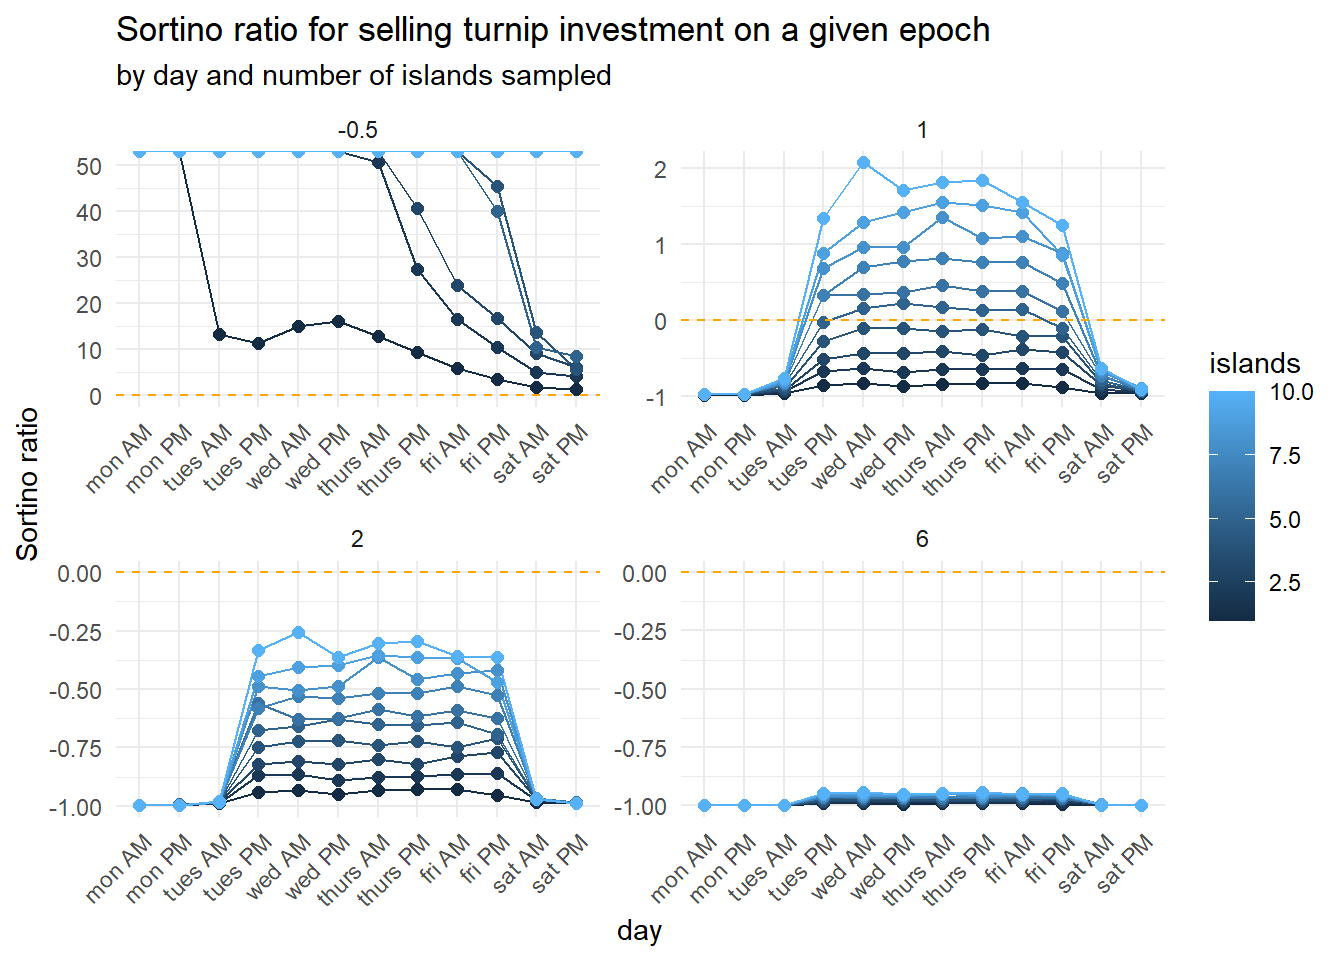
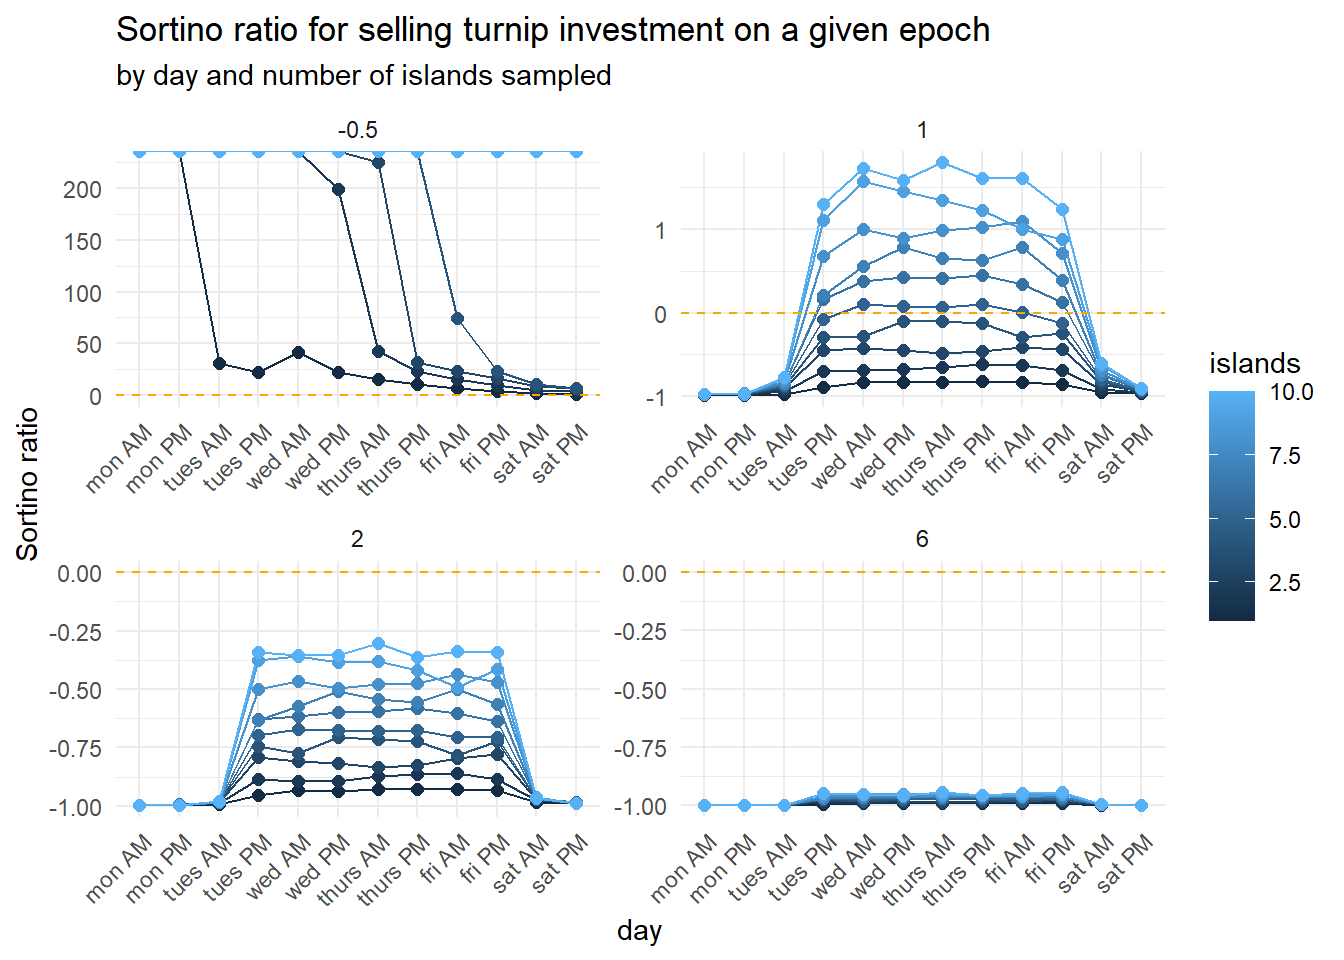
fixed typo and plot graph

diff --git a/public/post/how_i_made_my_millions/index.html b/public/post/how_i_made_my_millions/index.html
@@ -388,7 +388,7 @@ pattern_likelihood_analytic</code></pre>
 <pre><code>## fluctuating large_spike  decreasing small_spike 
 ##   0.3462773   0.2473628   0.1476074   0.2587525</code></pre>
 <p>Where we see that around half the time we have a chance of either a large or a small spike in prices around midweek (24.7% + 25.9%), with the majority of the remaining weeks showing a fluctuating pattern (where the player can still make a small profit). The worst case scenario of continually decreasing prices happens only 14.7% of the time, so overall, the stalk market looks like a pretty good bet for investors.</p>
-<p>Of course, we can also do this using Hamiltonian Monte Carlo methods but just simulating a few sets of independent weeks</p>
+<p>Of course, we can also do this using Hamiltonian Monte Carlo methods by simulating a few sets of independent weeks</p>
 <pre class="r"><code>#transition probabilities
 transition_df &lt;- as.data.frame(transition_matrix) %&gt;%
   rownames_to_column(var = &quot;current_state&quot;) %&gt;%
@@ -441,10 +441,10 @@ pattern_likelihood</code></pre>
 <pre><code>## # A tibble: 4 x 2
 ##   pattern      prob
 ##   &lt;chr&gt;       &lt;dbl&gt;
-## 1 decreasing  0.145
-## 2 fluctuating 0.346
+## 1 decreasing  0.147
+## 2 fluctuating 0.352
 ## 3 large_spike 0.244
-## 4 small_spike 0.265</code></pre>
+## 4 small_spike 0.256</code></pre>
 <p>And we get pretty much the same numbers (as we would expect). To show the relative frequencies and how well our two methods of finding the stationary probabilities work, we can easily graph this using ggplot:</p>
 <pre class="r"><code>p1 &lt;- pattern_likelihood_analytic %&gt;%
   as.data.frame() %&gt;%
@@ -615,18 +615,18 @@ select(Sharpe_mean_returns, day, sharpe_ratio)</code></pre>
 <pre><code>## # A tibble: 12 x 2
 ##    day      sharpe_ratio
 ##    &lt;fct&gt;           &lt;dbl&gt;
-##  1 mon AM        -0.250 
-##  2 mon PM        -0.340 
-##  3 tues AM       -0.212 
-##  4 tues PM        0.0574
-##  5 wed AM         0.0993
-##  6 wed PM         0.108 
-##  7 thurs AM       0.0618
-##  8 thurs PM       0.0866
-##  9 fri AM         0.0574
-## 10 fri PM        -0.0494
-## 11 sat AM        -0.536 
-## 12 sat PM        -0.812</code></pre>
+##  1 mon AM        -0.274 
+##  2 mon PM        -0.369 
+##  3 tues AM       -0.158 
+##  4 tues PM        0.0975
+##  5 wed AM         0.157 
+##  6 wed PM         0.135 
+##  7 thurs AM       0.0574
+##  8 thurs PM       0.0533
+##  9 fri AM         0.0347
+## 10 fri PM        -0.103 
+## 11 sat AM        -0.595 
+## 12 sat PM        -0.763</code></pre>
 <p>So, as expected, the only epochs which show a positive Sharpe ratio are in the middle of the week, where prices spike. If we plot this we get a clearer indication of this:</p>
 <pre class="r"><code>p4 &lt;- ggplot(Sharpe_mean_returns, aes(x = day, y = sharpe_ratio, group = 1)) +
   geom_line(colour = &quot;dodgerblue&quot;) +
@@ -703,19 +703,19 @@ p5</code></pre>
   arrange(-mean_return) %&gt;%
   head(n = 10)</code></pre>
 <pre><code>## # A tibble: 10 x 3
-## # Groups:   islands [3]
+## # Groups:   islands [2]
 ##    islands day      mean_return
 ##      &lt;int&gt; &lt;fct&gt;          &lt;dbl&gt;
-##  1      10 wed AM          2.71
-##  2      10 thurs PM        2.65
-##  3      10 thurs AM        2.65
+##  1      10 thurs AM        2.65
+##  2      10 fri AM          2.60
+##  3      10 wed AM          2.59
 ##  4      10 wed PM          2.59
-##  5       9 thurs AM        2.58
-##  6      10 fri AM          2.58
-##  7      10 tues PM         2.58
-##  8       9 thurs PM        2.57
-##  9       9 fri AM          2.56
-## 10       8 thurs AM        2.55</code></pre>
+##  5      10 thurs PM        2.58
+##  6       9 wed AM          2.58
+##  7      10 tues PM         2.57
+##  8      10 fri PM          2.56
+##  9       9 wed PM          2.54
+## 10       9 thurs AM        2.54</code></pre>
 <p>If we use our Sharpe ratio calculation to then calculate when a player should collude with friends to all check their local turnip prices* we might expect therefore that it will also suggest checking somewhere in this midweek spike. However, if we plot it, we find an unexpected result:</p>
 <p>*if we assume that quarantined players probably <em>can</em> manage to check prices more than once/twice a week, managing to co-ordinate between multiple players is going to get very hard very quickly so this constraint really will become a factor</p>
 <pre class="r"><code>#calculate Sharpe ratio per island as before
@@ -784,7 +784,10 @@ p7</code></pre>
     x = &quot;fractional daily change in price&quot;,
     y = &quot;count&quot;
   ) +
-  theme_minimal()</code></pre>
+  theme_minimal()
+
+p8</code></pre>
+<p><img src="/post/2019-05-17-playing_the_stalk_market_files/figure-html/show_stock_returns-1.png" width="672" /></p>
 <p>There’s three things to note here:
 - the daily change in prices (roughly) follows a normal distribution* (with a mean slightly above 0 over a given time frame)
 - the daily change in price is fairly small, i.e. the price is fairly stable
@@ -907,7 +910,7 @@ p10</code></pre>
     
     <li><a href="/post/cam_rowing_1/">Predicting the Unpredictable- Analysing Rowing in Cambridge pt. 1</a></li>
     
-    <li><a href="/post/dynamic_web_scraping/">Scraping Dynamic Websites with PhantomJS</a></li>
+    <li><a href="/post/guardian_knowledge_june/">The Guardian Knowledge June 2019</a></li>
     
   </ul>
 </div>

diff --git a/content/post/2019-05-17-playing_the_stalk_market.html b/content/post/2019-05-17-playing_the_stalk_market.html
@@ -88,7 +88,7 @@ pattern_likelihood_analytic</code></pre>
 <pre><code>## fluctuating large_spike  decreasing small_spike 
 ##   0.3462773   0.2473628   0.1476074   0.2587525</code></pre>
 <p>Where we see that around half the time we have a chance of either a large or a small spike in prices around midweek (24.7% + 25.9%), with the majority of the remaining weeks showing a fluctuating pattern (where the player can still make a small profit). The worst case scenario of continually decreasing prices happens only 14.7% of the time, so overall, the stalk market looks like a pretty good bet for investors.</p>
-<p>Of course, we can also do this using Hamiltonian Monte Carlo methods but just simulating a few sets of independent weeks</p>
+<p>Of course, we can also do this using Hamiltonian Monte Carlo methods by simulating a few sets of independent weeks</p>
 <pre class="r"><code>#transition probabilities
 transition_df &lt;- as.data.frame(transition_matrix) %&gt;%
   rownames_to_column(var = &quot;current_state&quot;) %&gt;%
@@ -141,10 +141,10 @@ pattern_likelihood</code></pre>
 <pre><code>## # A tibble: 4 x 2
 ##   pattern      prob
 ##   &lt;chr&gt;       &lt;dbl&gt;
-## 1 decreasing  0.145
-## 2 fluctuating 0.346
+## 1 decreasing  0.147
+## 2 fluctuating 0.352
 ## 3 large_spike 0.244
-## 4 small_spike 0.265</code></pre>
+## 4 small_spike 0.256</code></pre>
 <p>And we get pretty much the same numbers (as we would expect). To show the relative frequencies and how well our two methods of finding the stationary probabilities work, we can easily graph this using ggplot:</p>
 <pre class="r"><code>p1 &lt;- pattern_likelihood_analytic %&gt;%
   as.data.frame() %&gt;%
@@ -315,18 +315,18 @@ select(Sharpe_mean_returns, day, sharpe_ratio)</code></pre>
 <pre><code>## # A tibble: 12 x 2
 ##    day      sharpe_ratio
 ##    &lt;fct&gt;           &lt;dbl&gt;
-##  1 mon AM        -0.250 
-##  2 mon PM        -0.340 
-##  3 tues AM       -0.212 
-##  4 tues PM        0.0574
-##  5 wed AM         0.0993
-##  6 wed PM         0.108 
-##  7 thurs AM       0.0618
-##  8 thurs PM       0.0866
-##  9 fri AM         0.0574
-## 10 fri PM        -0.0494
-## 11 sat AM        -0.536 
-## 12 sat PM        -0.812</code></pre>
+##  1 mon AM        -0.274 
+##  2 mon PM        -0.369 
+##  3 tues AM       -0.158 
+##  4 tues PM        0.0975
+##  5 wed AM         0.157 
+##  6 wed PM         0.135 
+##  7 thurs AM       0.0574
+##  8 thurs PM       0.0533
+##  9 fri AM         0.0347
+## 10 fri PM        -0.103 
+## 11 sat AM        -0.595 
+## 12 sat PM        -0.763</code></pre>
 <p>So, as expected, the only epochs which show a positive Sharpe ratio are in the middle of the week, where prices spike. If we plot this we get a clearer indication of this:</p>
 <pre class="r"><code>p4 &lt;- ggplot(Sharpe_mean_returns, aes(x = day, y = sharpe_ratio, group = 1)) +
   geom_line(colour = &quot;dodgerblue&quot;) +
@@ -403,19 +403,19 @@ p5</code></pre>
   arrange(-mean_return) %&gt;%
   head(n = 10)</code></pre>
 <pre><code>## # A tibble: 10 x 3
-## # Groups:   islands [3]
+## # Groups:   islands [2]
 ##    islands day      mean_return
 ##      &lt;int&gt; &lt;fct&gt;          &lt;dbl&gt;
-##  1      10 wed AM          2.71
-##  2      10 thurs PM        2.65
-##  3      10 thurs AM        2.65
+##  1      10 thurs AM        2.65
+##  2      10 fri AM          2.60
+##  3      10 wed AM          2.59
 ##  4      10 wed PM          2.59
-##  5       9 thurs AM        2.58
-##  6      10 fri AM          2.58
-##  7      10 tues PM         2.58
-##  8       9 thurs PM        2.57
-##  9       9 fri AM          2.56
-## 10       8 thurs AM        2.55</code></pre>
+##  5      10 thurs PM        2.58
+##  6       9 wed AM          2.58
+##  7      10 tues PM         2.57
+##  8      10 fri PM          2.56
+##  9       9 wed PM          2.54
+## 10       9 thurs AM        2.54</code></pre>
 <p>If we use our Sharpe ratio calculation to then calculate when a player should collude with friends to all check their local turnip prices* we might expect therefore that it will also suggest checking somewhere in this midweek spike. However, if we plot it, we find an unexpected result:</p>
 <p>*if we assume that quarantined players probably <em>can</em> manage to check prices more than once/twice a week, managing to co-ordinate between multiple players is going to get very hard very quickly so this constraint really will become a factor</p>
 <pre class="r"><code>#calculate Sharpe ratio per island as before
@@ -484,7 +484,10 @@ p7</code></pre>
     x = &quot;fractional daily change in price&quot;,
     y = &quot;count&quot;
   ) +
-  theme_minimal()</code></pre>
+  theme_minimal()
+
+p8</code></pre>
+<p><img src="/post/2019-05-17-playing_the_stalk_market_files/figure-html/show_stock_returns-1.png" width="672" /></p>
 <p>There’s three things to note here:
 - the daily change in prices (roughly) follows a normal distribution* (with a mean slightly above 0 over a given time frame)
 - the daily change in price is fairly small, i.e. the price is fairly stable

diff --git a/public/post/cam_rowing_1/index.html b/public/post/cam_rowing_1/index.html
@@ -517,9 +517,9 @@ p2</code></pre>
     
     <li><a href="/project/yorkshire_world_cup/">Could Yorkshire Win the World Cup</a></li>
     
-    <li><a href="/post/dynamic_web_scraping/">Scraping Dynamic Websites with PhantomJS</a></li>
-    
     <li><a href="/post/guardian_knowledge_june/">The Guardian Knowledge June 2019</a></li>
+    
+    <li><a href="/post/dynamic_web_scraping/">Scraping Dynamic Websites with PhantomJS</a></li>
     
     <li><a href="/post/riddler-1st-feb-2019/">Riddler 1st February 2019</a></li>
     

diff --git a/public/post/five_min_trivia_birthdays/index.html b/public/post/five_min_trivia_birthdays/index.html
@@ -769,11 +769,11 @@ best_teams &lt;-
     
     <li><a href="/post/advent_calendar_trivia/">Advent Calendar of Football Trivia Analyses</a></li>
     
+    <li><a href="/project/guardian_knowledge/">Guardian: The Knowledge</a></li>
+    
     <li><a href="/project/statsbomb_conference/">Statsbomb Conference</a></li>
     
     <li><a href="/project/yorkshire_world_cup/">Could Yorkshire Win the World Cup</a></li>
-    
-    <li><a href="/project/guardian_knowledge/">Guardian: The Knowledge</a></li>
     
   </ul>
 </div>

diff --git a/public/post/five_min_trivia_invincibles/index.html b/public/post/five_min_trivia_invincibles/index.html
@@ -751,9 +751,9 @@ p4</code></pre>
     
     <li><a href="/project/statsbomb_conference/">Statsbomb Conference</a></li>
     
-    <li><a href="/project/yorkshire_world_cup/">Could Yorkshire Win the World Cup</a></li>
-    
     <li><a href="/project/guardian_knowledge/">Guardian: The Knowledge</a></li>
+    
+    <li><a href="/project/yorkshire_world_cup/">Could Yorkshire Win the World Cup</a></li>
     
     <li><a href="/post/guardian_knowledge_june/">The Guardian Knowledge June 2019</a></li>
     

diff --git a/public/post/five_min_trivia_kraftwerk/index.html b/public/post/five_min_trivia_kraftwerk/index.html
@@ -870,7 +870,7 @@ head(winners_matches, n = 27)</code></pre>
     
     <li><a href="/post/advent_calendar_trivia/">Advent Calendar of Football Trivia Analyses</a></li>
     
-    <li><a href="/project/guardian_knowledge/">Guardian: The Knowledge</a></li>
+    <li><a href="/project/yorkshire_world_cup/">Could Yorkshire Win the World Cup</a></li>
     
     <li><a href="/project/statsbomb_conference/">Statsbomb Conference</a></li>
     

diff --git a/public/post/fall_back_in_to_space/index.html b/public/post/fall_back_in_to_space/index.html
@@ -1001,7 +1001,7 @@ microbenchmark(
     
     <li><a href="/post/advent_calendar_trivia/">Advent Calendar of Football Trivia Analyses</a></li>
     
-    <li><a href="/project/guardian_knowledge/">Guardian: The Knowledge</a></li>
+    <li><a href="/project/statsbomb_conference/">Statsbomb Conference</a></li>
     
   </ul>
 </div>
